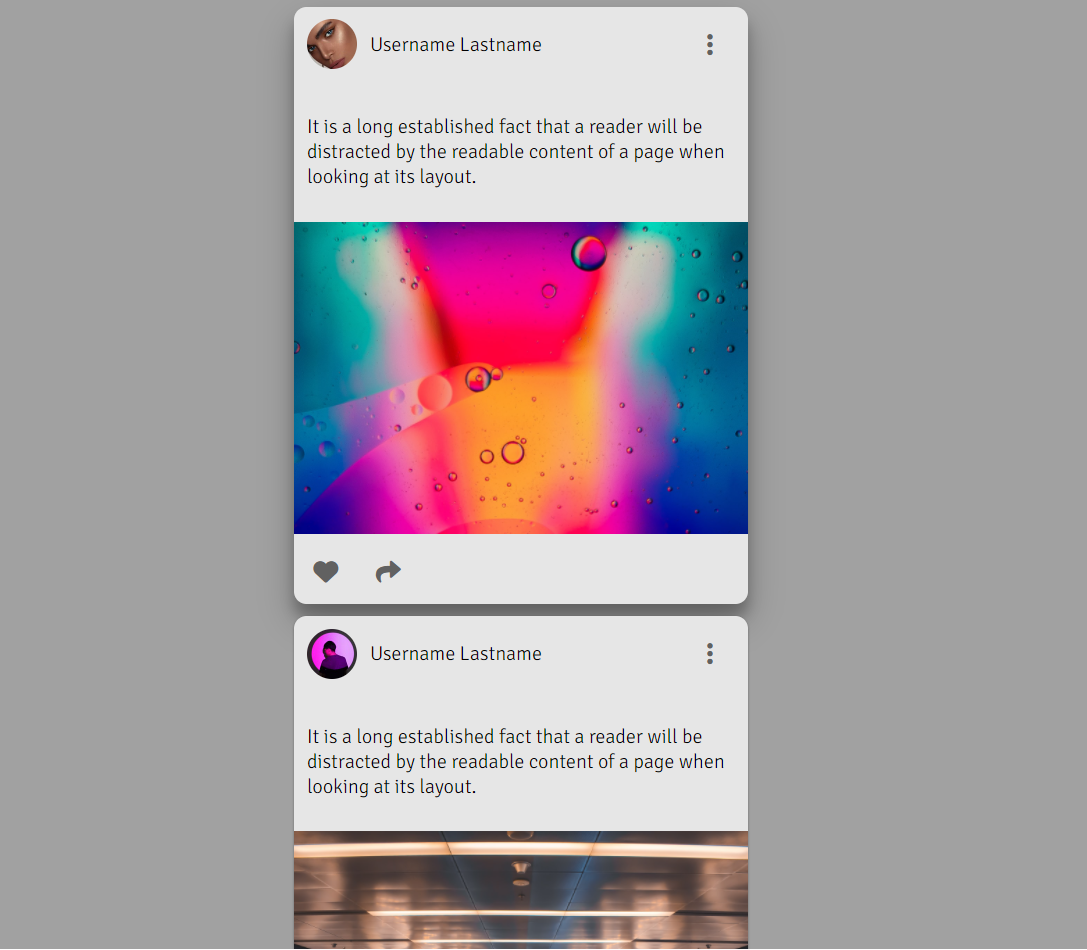
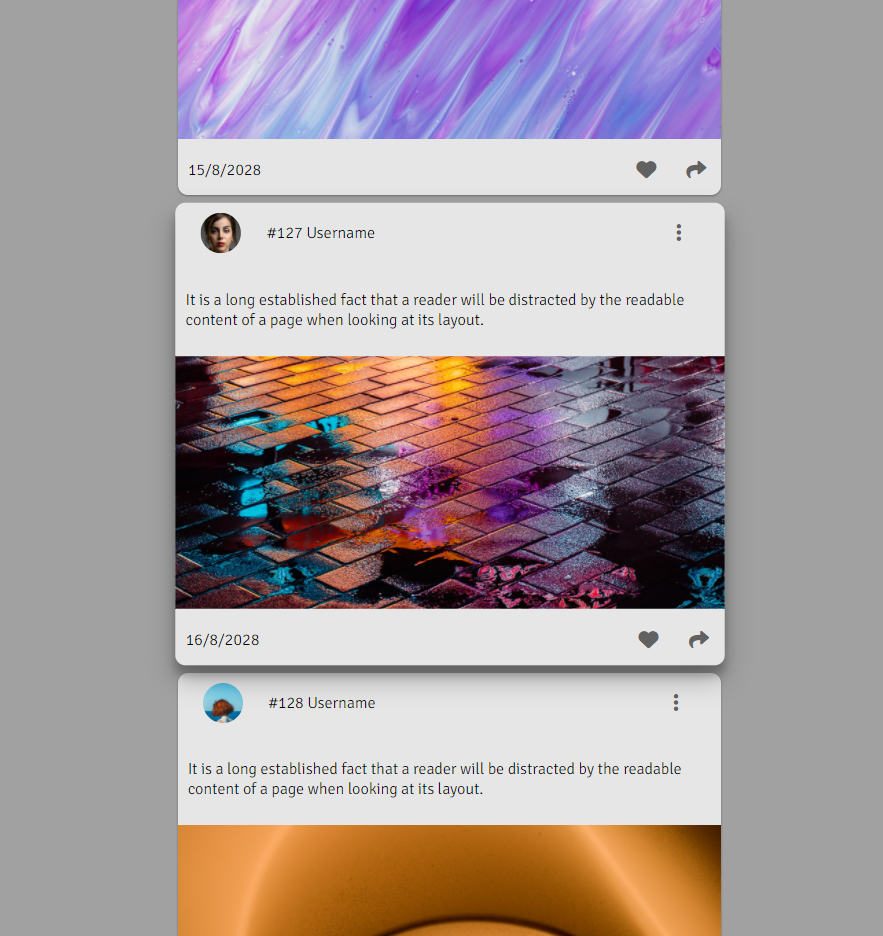
readme

diff --git a/index.html b/index.html
@@ -86,7 +86,7 @@
             </p>
           </div>
           <div class="card-box">
-            <img src="https://source.unsplash.com/1600x900/?cloud" alt="" />
+            <img src="https://source.unsplash.com/1600x900/?purple" alt="" />
           </div>
           <div class="card-box">
             <div class="card-box-footer">
@@ -114,7 +114,7 @@
             </p>
           </div>
           <div class="card-box">
-            <img src="https://source.unsplash.com/1600x900/?freeze" alt="" />
+            <img src="https://source.unsplash.com/1600x900/?aesthetic" alt="" />
           </div>
           <div class="card-box">
             <div class="card-box-footer">
@@ -142,7 +142,7 @@
             </p>
           </div>
           <div class="card-box">
-            <img src="https://source.unsplash.com/1600x900/?sky" alt="" />
+            <img src="https://source.unsplash.com/1600x900/?gradients" alt="" />
           </div>
           <div class="card-box">
             <div class="card-box-footer">
@@ -170,7 +170,7 @@
             </p>
           </div>
           <div class="card-box">
-            <img src="https://source.unsplash.com/1600x900/?relax" alt="" />
+            <img src="https://source.unsplash.com/1600x900/?pattern" alt="" />
           </div>
           <div class="card-box">
             <div class="card-box-footer">

diff --git a/README.md b/README.md
@@ -4,9 +4,9 @@
 Use these cards on your website by downloading the repo
 
 
-link:https://fergolive.github.io/Responsive-card-post-feed/
+link: https://fergolive.github.io/Responsive-card-post-feed/
 
-
+![ScreenShot](/screenshots/latest2.png)
 ![ScreenShot](/screenshots/latest.png)
 
 ## Contributing
